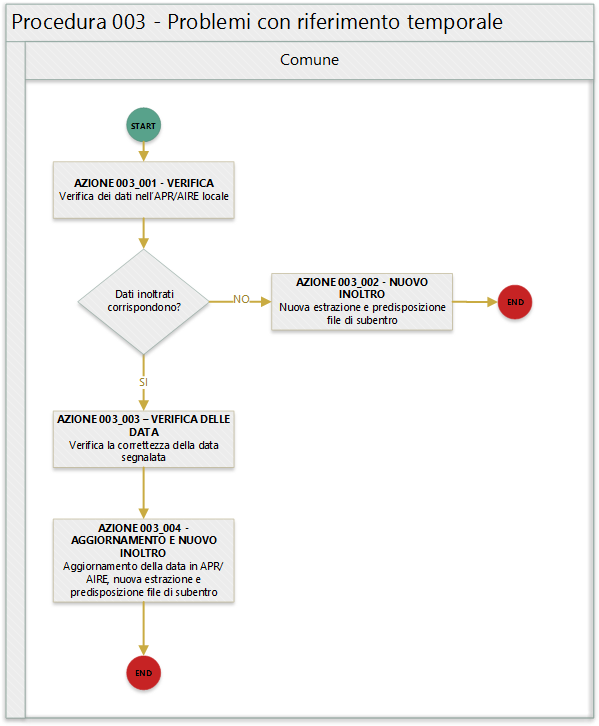
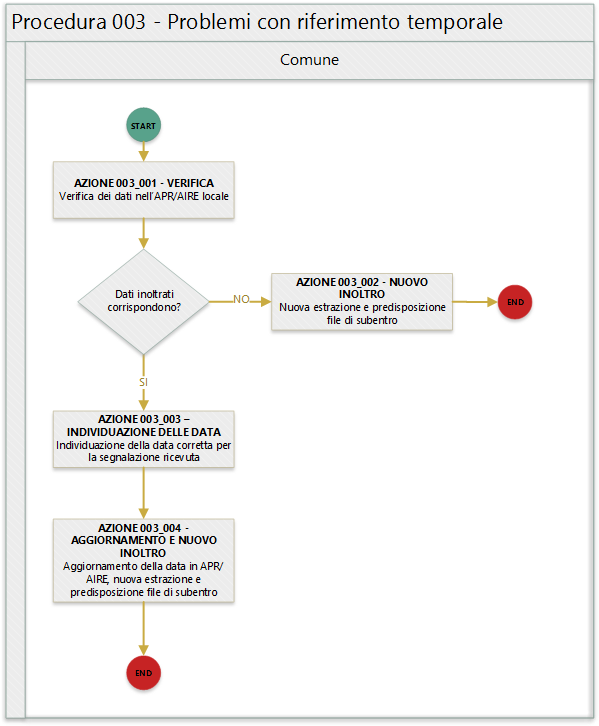
Aggiunta procedura 004

Changed region(s): [[0.0902, 0.5455, 0.3907, 0.6364]]

diff --git a/TAB01_ANOMALIE_ANPR.md b/TAB01_ANOMALIE_ANPR.md
@@ -90,7 +90,7 @@ La seguente tabella riporta le anomalie che il sistema ANPR rileva sui dati tras
 |	EN063	|	Famiglia/convivenza del soggetto non presente nello stesso file di subentro	| warning non bloccante | |
 |	EN064	|	Grado di parentela [@] - [@] non piu' valido	| warning non bloccante | |
 |	EN242	|	Codice tipo tribunale non valido	| warning da rimuovere prima del subentro | |
-|	EN306	|	La data del matrimonio e' obbligatoria	| warning da rimuovere prima del subentro | |
+|	EN306	|	La data del matrimonio e' obbligatoria	| warning da rimuovere prima del subentro | [Procedura 004 - Dati obbligatori popolati non correttamente](procedure/PROCEDURA_004.md) |
 |	EN347	|	Codice istat utilizzato corrisponde a un codice di variazione	| warning non bloccante | |
 |	ES007	|	Soggetto gia' presente in ANPR	| warning da rimuovere prima del subentro | [Procedura 005 - Duplicazione scheda anagrafica](procedure/PROCEDURA_005.md) |
 |	ES008	|	Data nascita [@] successiva alla data di richiesta	| warning da rimuovere prima del subentro | [Procedura 003 - Problemi con riferimento temporale](procedure/PROCEDURA_003.md) |
@@ -98,16 +98,16 @@ La seguente tabella riporta le anomalie che il sistema ANPR rileva sui dati tras
 |	ES010	|	Data matrimonio [@] deve essere successiva alla data di nascita [@] ma non a  a quella corrente	| warning da rimuovere prima del subentro | [Procedura 003 - Problemi con riferimento temporale](procedure/PROCEDURA_003.md) |
 |	ES012	|	Data annullamento matrimonio [@] deve essere successiva alla data di nascita [@] ma non a  a quella corrente [@]	| warning da rimuovere prima del subentro | [Procedura 003 - Problemi con riferimento temporale](procedure/PROCEDURA_003.md) |
 |	ES013	|	Data formazione atto di nascita [@] deve essere coincidente o successiva a quella di nascita [@] ma non a  a quella corrente [@]	| warning da rimuovere prima del subentro | [Procedura 003 - Problemi con riferimento temporale](procedure/PROCEDURA_003.md) |
-|	ES027	|	La descrizione della localita' e' obbligatoria per la residenza estera	| warning non bloccante | |
-|	ES028	|	Per la residenza estera deve essere presente almeno uno tra i seguenti campi: indirizzo, presso, contea-provincia, CAP	| warning non bloccante | |
-|	ES048	|	Occorre impostare in alternativa  il comune o la localita' estera del matrimonio	| warning non bloccante | |
-|	ES050	|	Occorre impostare in alternativa codice  comune ISTAT  o stato estero di nascita	| warning non bloccante | |
-|	ES057	|	Specificare in alternativa che il soggetto e' senza cognome o senza nome | warning da rimuovere prima del subentro | |
-|	ES061	|	Il cognome deve essere assente se il campo SenzaCognome e' impostato	| warning da rimuovere prima del subentro | |
-|	ES062	|	Il nome deve essere assente se il campo SenzaNome e' impostato	| warning da rimuovere prima del subentro | |
+|	ES027	|	La descrizione della localita' e' obbligatoria per la residenza estera	| warning non bloccante | [Procedura 004 - Dati obbligatori popolati non correttamente](procedure/PROCEDURA_004.md) |
+|	ES028	|	Per la residenza estera deve essere presente almeno uno tra i seguenti campi: indirizzo, presso, contea-provincia, CAP	| warning non bloccante | [Procedura 004 - Dati obbligatori popolati non correttamente](procedure/PROCEDURA_004.md) |
+|	ES048	|	Occorre impostare in alternativa  il comune o la localita' estera del matrimonio	| warning non bloccante | [Procedura 004 - Dati obbligatori popolati non correttamente](procedure/PROCEDURA_004.md) |
+|	ES050	|	Occorre impostare in alternativa codice  comune ISTAT  o stato estero di nascita	| warning non bloccante | [Procedura 004 - Dati obbligatori popolati non correttamente](procedure/PROCEDURA_004.md) |
+|	ES057	|	Specificare in alternativa che il soggetto e' senza cognome o senza nome | warning da rimuovere prima del subentro | [Procedura 004 - Dati obbligatori popolati non correttamente](procedure/PROCEDURA_004.md) |
+|	ES061	|	Il cognome deve essere assente se il campo SenzaCognome e' impostato	| warning da rimuovere prima del subentro | [Procedura 004 - Dati obbligatori popolati non correttamente](procedure/PROCEDURA_004.md) |
+|	ES062	|	Il nome deve essere assente se il campo SenzaNome e' impostato	| warning da rimuovere prima del subentro | [Procedura 004 - Dati obbligatori popolati non correttamente](procedure/PROCEDURA_004.md) |
 |	ES063	|	La data nascita [@] deve avere solo l'anno se il campo senzaGiornoMese e' impostato a 1	| warning da rimuovere prima del subentro | [Procedura 003 - Problemi con riferimento temporale](procedure/PROCEDURA_003.md) |
 |	ES066	|	La data nascita [@] deve avere solo il mese e l'anno se il campo senzaGiorno e' impostato a 1	| warning da rimuovere prima del subentro | [Procedura 003 - Problemi con riferimento temporale](procedure/PROCEDURA_003.md) |
-|	ES067	|	Occorre impostare in alternativa il  comune o la localita' estera di decesso del coniuge	| warning non bloccante | |
+|	ES067	|	Occorre impostare in alternativa il  comune o la localita' estera di decesso del coniuge	| warning non bloccante | [Procedura 004 - Dati obbligatori popolati non correttamente](procedure/PROCEDURA_004.md) |
 |	ES078	|	La data di decorrenza iscrizione AIRE [@] deve essere maggiore uguale 01/07/1990 ma non a  a quella corrente	| warning da rimuovere prima del subentro | [Procedura 003 - Problemi con riferimento temporale](procedure/PROCEDURA_003.md) |
 |	ES079	|	Anno espatrio [@] deve essere maggiore uguale anno nascita [@] e minore uguale anno corrente	| warning da rimuovere prima del subentro | [Procedura 003 - Problemi con riferimento temporale](procedure/PROCEDURA_003.md) |
 |	ES092	|	Soggetto senza scheda famiglia/convivenza associata	| errore | |

diff --git a/procedure/PROCEDURA_003.md b/procedure/PROCEDURA_003.md
@@ -6,19 +6,18 @@
 
 In quanto segue si riporta la procedura suggerita ai Comuni per la gestione delle anomalie: 
 
-- EHR69 - Anno dell'atto di nascita non valido
-- EHR70 - Anno dell'atto di morte non valido
-- EHR73 - Anno dell'atto di annullamento del matrimonio non valido
-- ES008 - Data nascita successiva alla data di richiesta
-- ES009 - Data validità cittadinanza deve essere maggiore uguale della data di nascita ma non a a quella corrente 
-- ES010 - Data matrimonio deve essere successiva alla data di nascita ma non a a quella corrente
-- ES012 - Data annullamento matrimonio deve essere successiva alla data di nascita ma non a a quella corrente
-- ES013 - Data formazione atto di nascita deve essere coincidente o successiva a quella di nascita ma non a a quella corrente
-- ES063 - La data nascita deve avere solo l'anno se il campo senzaGiornoMese è impostato a 1
-- ES066 - La data nascita deve avere solo il mese e l'anno se il campo senzaGiorno e' impostato a 1
-- ES078 - La data di decorrenza iscrizione AIRE deve essere maggiore uguale 01/07/1990 ma non a a quella corrente
-- ES079 - Anno espatrio deve essere maggiore uguale anno nascita e minore uguale anno corrente
-
+- EHR69 - Anno dell'atto di nascita non valido;
+- EHR70 - Anno dell'atto di morte non valido;
+- EHR73 - Anno dell'atto di annullamento del matrimonio non valido;
+- ES008 - Data nascita successiva alla data di richiesta;
+- ES009 - Data validità cittadinanza deve essere maggiore uguale della data di nascita ma non a a quella corrente; 
+- ES010 - Data matrimonio deve essere successiva alla data di nascita ma non a a quella corrente;
+- ES012 - Data annullamento matrimonio deve essere successiva alla data di nascita ma non a a quella corrente;
+- ES013 - Data formazione atto di nascita deve essere coincidente o successiva a quella di nascita ma non a a quella corrente;
+- ES063 - La data nascita deve avere solo l'anno se il campo senzaGiornoMese è impostato a 1;
+- ES066 - La data nascita deve avere solo il mese e l'anno se il campo senzaGiorno e' impostato a 1;
+- ES078 - La data di decorrenza iscrizione AIRE deve essere maggiore uguale 01/07/1990 ma non a a quella corrente;
+- ES079 - Anno espatrio deve essere maggiore uguale anno nascita e minore uguale anno corrente.
 
 
 ## Precondizione
@@ -35,16 +34,16 @@ La seguente figura sintetizza la procedura per la gestione delle anomalie.
 ## Descrizione azione
 In quanto segue si riporta una descrizione delle azioni previsti per la presente procedura.
 
-### AZIONE 006_001 - VERIFICA
+### AZIONE 003_001 - VERIFICA
 L'ufficiale d'anagrafe verifica i dati anagrafici associati al soggetto interessato dall'errore sul sistema gestionale del Comune (APR o AIRE locale) con l'obiettivo di constatare che i dati inoltrati al sistema ANPR coincidono con quelli registrati.
 
-### AZIONE 006_002 – NUOVO INOLTRO
+### AZIONE 003_002 – NUOVO INOLTRO
 Poichè i dati inoltrati al sistema ANPR non coincidono con quelli presenti nel sistema gestionale del Comune (probabilemente per problemi nella procedura di estrazione e predisposizione dei file di subentro utilizzata) è necessario provvedere nuovamente all'estrazione dei dati e alla predisposizione dei file di subentro al fine di provvedere ad eseguire l'inoltro al sistema ANPR.
 
-### AZIONE 006_003 – VERIFICA DELLA DATA
+### AZIONE 003_003 – VERIFICA DELLA DATA
 L'ufficiale di anagrafe determina il corretto valore per la data segnalata, se necessario anche attraverso il riscontro con gli atti di stato civile, e non da meno la coerenza della stessa con i riferimenti temporali degli altri eventi anagrafici da considerare, ad esempio nel caso dell'anomalia *EHR70 - Anno dell'atto di morte non valido* accerta che l'anno indicato sia non minore dell'anno di nascita del soggetto.
 
-### AZIONE 006_004 - AGGIORNAMENTO E NUOVO INOLTRO
+### AZIONE 003_004 - AGGIORNAMENTO E NUOVO INOLTRO
 L'ufficiale di anagrafe, sulla base della verifica effettuata, provvede ad aggironare la *schede soggetto* e/o *schede famiglia*  sul sistema gestionale del Comune per dare seguito ad una nuova estrazione dei dati e alla predisposizione dei file di subentro al fine di provvedere ad eseguire l'inoltro al sistema ANPR.
 
 

diff --git a/procedure/PROCEDURA_004.md b/procedure/PROCEDURA_004.md
@@ -1,0 +1,44 @@
+	QUESTO DOCUMENTO É UNA BOZZA DI LAVORO
+
+# Procedura 004 - Dati obbligatori popolati non correttamente
+
+> ritorna [*README*](../README.md) o [*Tabella anomalie ANPR*](../TAB01_ANOMALIE_ANPR.md)
+
+In quanto segue si riporta la procedura suggerita ai Comuni per la gestione delle anomalie: 
+
+- EN306 - La data del matrimonio è obbligatoria;
+- ES027 - La descrizione della località è obbligatoria per la residenza estera;
+- ES028 - Per la residenza estera deve essere presente almeno uno tra i seguenti campi: indirizzo, presso, contea-provincia, CAP;
+- ES048 - Occorre impostare in alternativa il comune o la località estera del matrimonio;
+- ES050 - Occorre impostare in alternativa codice comune ISTAT o stato estero di nascita;
+- ES057 - Specificare in alternativa che il soggetto è senza cognome o senza nome;
+- ES061 - Il cognome deve essere assente se il campo SenzaCognome è impostato;
+- ES062 - Il nome deve essere assente se il campo SenzaNome è impostato;
+- ES067 - Occorre impostare in alternativa il comune o la località estera di decesso del coniuge.
+
+
+## Precondizione
+Per dare seguito alla presente procedura è necessario che l'ufficiale d'anagrafe disponga della risoluzione dei valori ammessi nell'APR/AIRE locale con i codice previsti nelle tabelle di riferimento adottate da ANPR.
+
+Si evidenzia che di norma il verificarsi di uno degli errori trattati dalla presente procedura riguardano la mappatura delle tabelle “interne” utilizzate dal software anagrafico in uso.  
+
+
+## Diagramma della procedura
+La seguente figura sintetizza la procedura per la gestione delle anomalie.
+
+![Swimlane diagram procedura 004](image/IMAGE_004.png)
+
+## Descrizione azione
+In quanto segue si riporta una descrizione delle azioni previsti per la presente procedura.
+
+### AZIONE 004_001 - VERIFICA
+L'ufficiale d'anagrafe verifica i dati anagrafici associati al soggetto interessato dall'errore sul sistema gestionale del Comune (APR o AIRE locale) con l'obiettivo di constatare che i dati inoltrati al sistema ANPR coincidono con quelli registrati.
+
+### AZIONE 004_002 – NUOVO INOLTRO
+Poichè i dati inoltrati al sistema ANPR non coincidono con quelli presenti nel sistema gestionale del Comune (probabilemente per problemi nella procedura di estrazione e predisposizione dei file di subentro utilizzata) è necessario provvedere nuovamente all'estrazione dei dati e alla predisposizione dei file di subentro al fine di provvedere ad eseguire l'inoltro al sistema ANPR.
+
+### AZIONE 004_003 – RECUPERO DATI MANCANTI
+L'ufficiale di anagrafe provvede a recuperare i dati manacanti, se necessario anche attraverso il riscontro con gli atti di stato civile, al fine di assicurare la completezza delle informazioni per la scheda soggetto interessato dall'anomalia. Successivamente provvedere ad aggiungere i dati sull'APR o AIRE locale per dare seguito ad una nuova estrazione dei dati e alla predisposizione dei file di subentro al fine di provvedere ad eseguire l'inoltro al sistema ANPR.
+
+
+> ritorna [*README*](../README.md) o [*Tabella anomalie ANPR*](../TAB01_ANOMALIE_ANPR.md)
